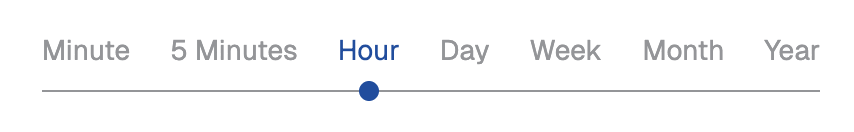
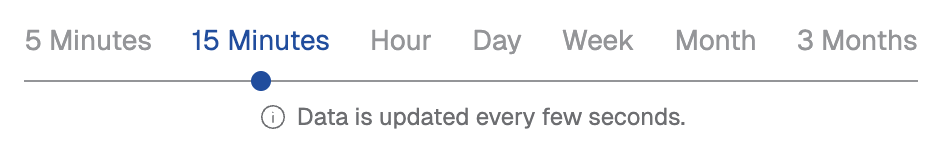
Merge pull request #2801 from redis/DOC-6244
RC: Monitoring resolution updates

Pull request: RC: Monitoring resolution updates
<!-- CURSOR_SUMMARY -->
> [!NOTE]
> **Low Risk**
> Low risk: documentation-only updates (changelog + reference tables) with no code or behavior changes.
> 
> **Overview**
> Adds a new `May 2026` Redis Cloud changelog entry announcing **Redis 8.6 availability on Essentials** and describing **metrics resolution updates**, including removal of the 1-minute and 1-year ranges (replaced by 3 months).
> 
> Updates `monitor-performance.md` to document the new *metric interval → resolution* mapping, and updates `version-management` to list **Redis 8.6** as an STS *Preview* version for Essentials.
> 
> <sup>Reviewed by [Cursor Bugbot](https://cursor.com/bugbot) for commit b358ddd3ec53b97f0c9dc8994a620c06035a9e5a. Bugbot is set up for automated code reviews on this repo. Configure [here](https://www.cursor.com/dashboard/bugbot).</sup>
<!-- /CURSOR_SUMMARY -->

diff --git a/content/operate/rc/changelog/may-2026.md b/content/operate/rc/changelog/may-2026.md
@@ -1,0 +1,33 @@
+---
+Title: Redis Cloud changelog (May 2026)
+alwaysopen: false
+categories:
+- docs
+- operate
+- rc
+description: New features, enhancements, and other changes added to Redis Cloud during
+  May 2026.
+highlights: Redis 8.6 on Redis Cloud Essentials, Metrics resolution updates
+linktitle: May 2026
+weight: 50
+tags:
+- changelog
+---
+
+## New features
+
+### Redis 8.6 on Redis Cloud Essentials
+
+Redis 8.6 is now available for [Redis Cloud Essentials databases]({{< relref "/operate/rc/databases/create-database/create-essentials-database" >}}) in select regions.
+
+## Enhancements
+
+### Metrics resolution updates
+
+{{< note >}}
+This change only affects Redis on RAM databases. Flex and Auto Tiering databases continue to use the previous metrics time ranges.
+{{< /note >}}
+
+The [metrics tab of a Redis Cloud database]({{< relref "/operate/rc/databases/monitor-performance#view-database-metrics" >}}) now displays database metrics at different levels of granularity depending on the selected time range. Short time ranges now show finer granularity for detailed investigation, and longer time ranges use aggregated intervals for clearer trend analysis. See [Metric intervals]({{< relref "/operate/rc/databases/monitor-performance#metric-intervals" >}}) for a list of available intervals and their corresponding resolutions.
+
+To simplify the monitoring experience and ensure each time range provides meaningful insight, the 1 minute and 1 year ranges have been removed. The 1 year range has been replaced with a 3 month range.

diff --git a/content/operate/rc/databases/monitor-performance.md b/content/operate/rc/databases/monitor-performance.md
@@ -20,9 +20,23 @@ The **Metrics** tab of the **View Database** screen provides a series of graphs 
 
 Performance data provides insight into how your database is being used and how well it is performing.
 
+### Metric intervals
+
 The interval scrollbar controls the time period displayed in the graphs.  
 
 {{<image filename="images/rc/database-metrics-interval-scrollbar.png" width="75%" alt="The Metrics tab of the View Database screen." >}}
+
+The following intervals are available:
+
+| Interval | Resolution |
+|----------|------------|
+| 5 minutes | 30 seconds |
+| 15 minutes | 30 seconds |
+| Hour | 1 minute |
+| Day | 5 minutes |
+| Week | 30 minutes |
+| Month | 4 hours |
+| 3 months | 12 hours |
 
 ## Promote metric graphs
 

diff --git a/content/operate/rc/changelog/march-2026.md b/content/operate/rc/changelog/march-2026.md
@@ -19,6 +19,7 @@ tags:
 ### Passwordless authentication for Redis Cloud Pro
 
 Passwordless authentication is now available for Redis Cloud Pro databases on subscriptions that have [blocked the public endpoint]({{< relref "/operate/rc/security/database-security/block-public-endpoints" >}}). For more information, see [Turn on passwordless authentication for the default user]({{< relref "/operate/rc/security/database-security/block-public-endpoints#turn-on-passwordless-authentication-for-the-default-user" >}}).
+
 ### Redis 8.4 on Redis Cloud Pro
 
 Redis 8.4 is now available for [Redis Cloud Pro databases]({{< relref "/operate/rc/databases/create-database/create-essentials-database" >}}) in select regions.
@@ -30,3 +31,4 @@ Redis 8.4 builds on the foundation of Redis 8.2 with significant enhancements to
 All Redis Cloud databases running Redis 8.4 and later will be automatically upgraded to the next minor version upon release. For example, all Redis 8.4 databases will be upgraded to Redis 8.6 when it is available on Redis Cloud.
 
 Redis Cloud Pro users can opt out of minor version auto-upgrades. See [Version management]({{< relref "/operate/rc/databases/version-management" >}}) for more details.
+

diff --git a/content/operate/rc/databases/version-management/_index.md b/content/operate/rc/databases/version-management/_index.md
@@ -43,6 +43,7 @@ When a Redis version reaches **End-of-Life (EOL)**, Redis Cloud will automatical
 
 | Version | Support model | Status | EOL Date | Plans |
 |---------|--------|--------|----------|-------|
+| **Redis 8.6** | STS | Preview | TBD | Essentials |
 | **Redis 8.4** | STS | GA | TBD | Essentials, Pro | 
 | **Redis 8.2** | LTS | GA | TBD | Essentials, Pro |
 | **Redis 8.0** | STS | Preview | TBD | Essentials<sup>[1](#table-note-1)</sup> |